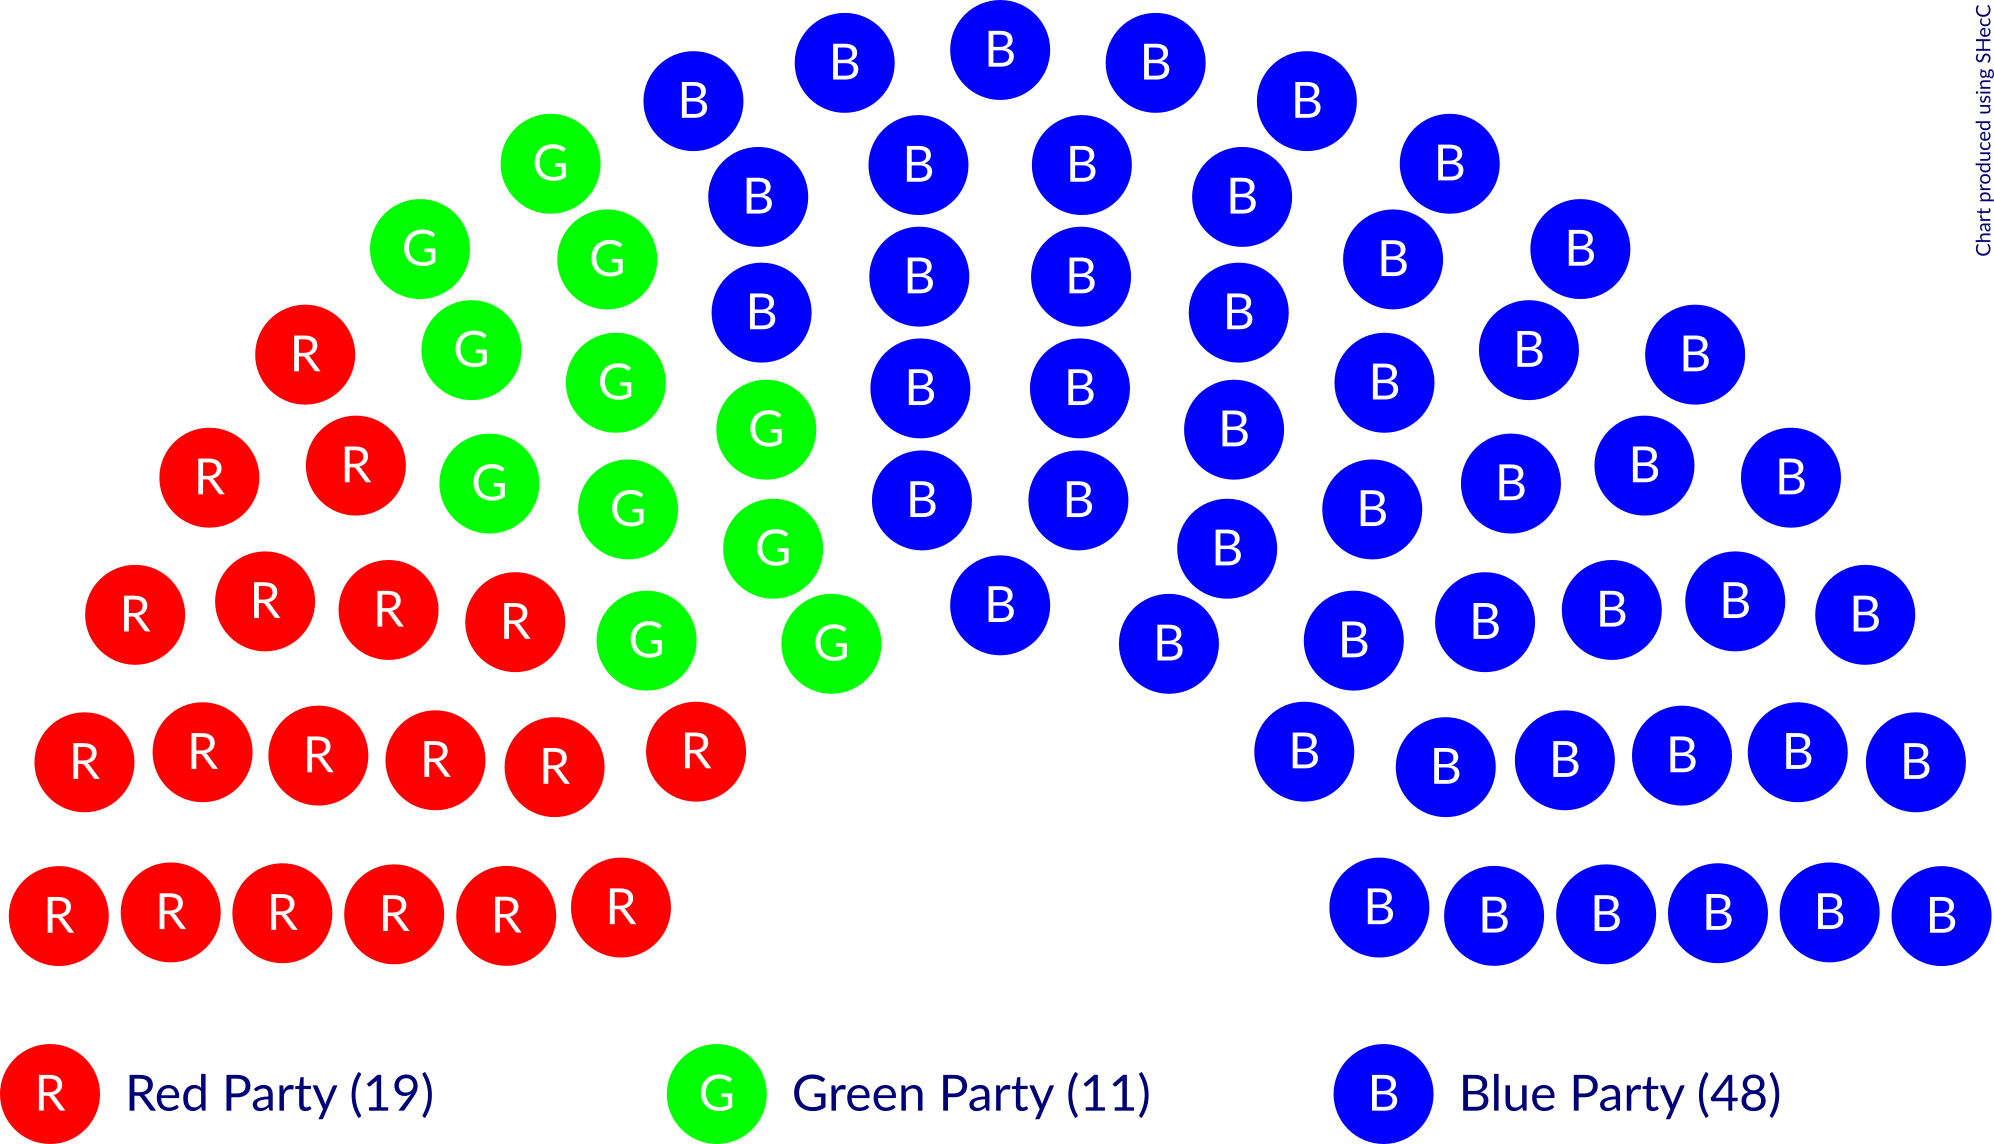
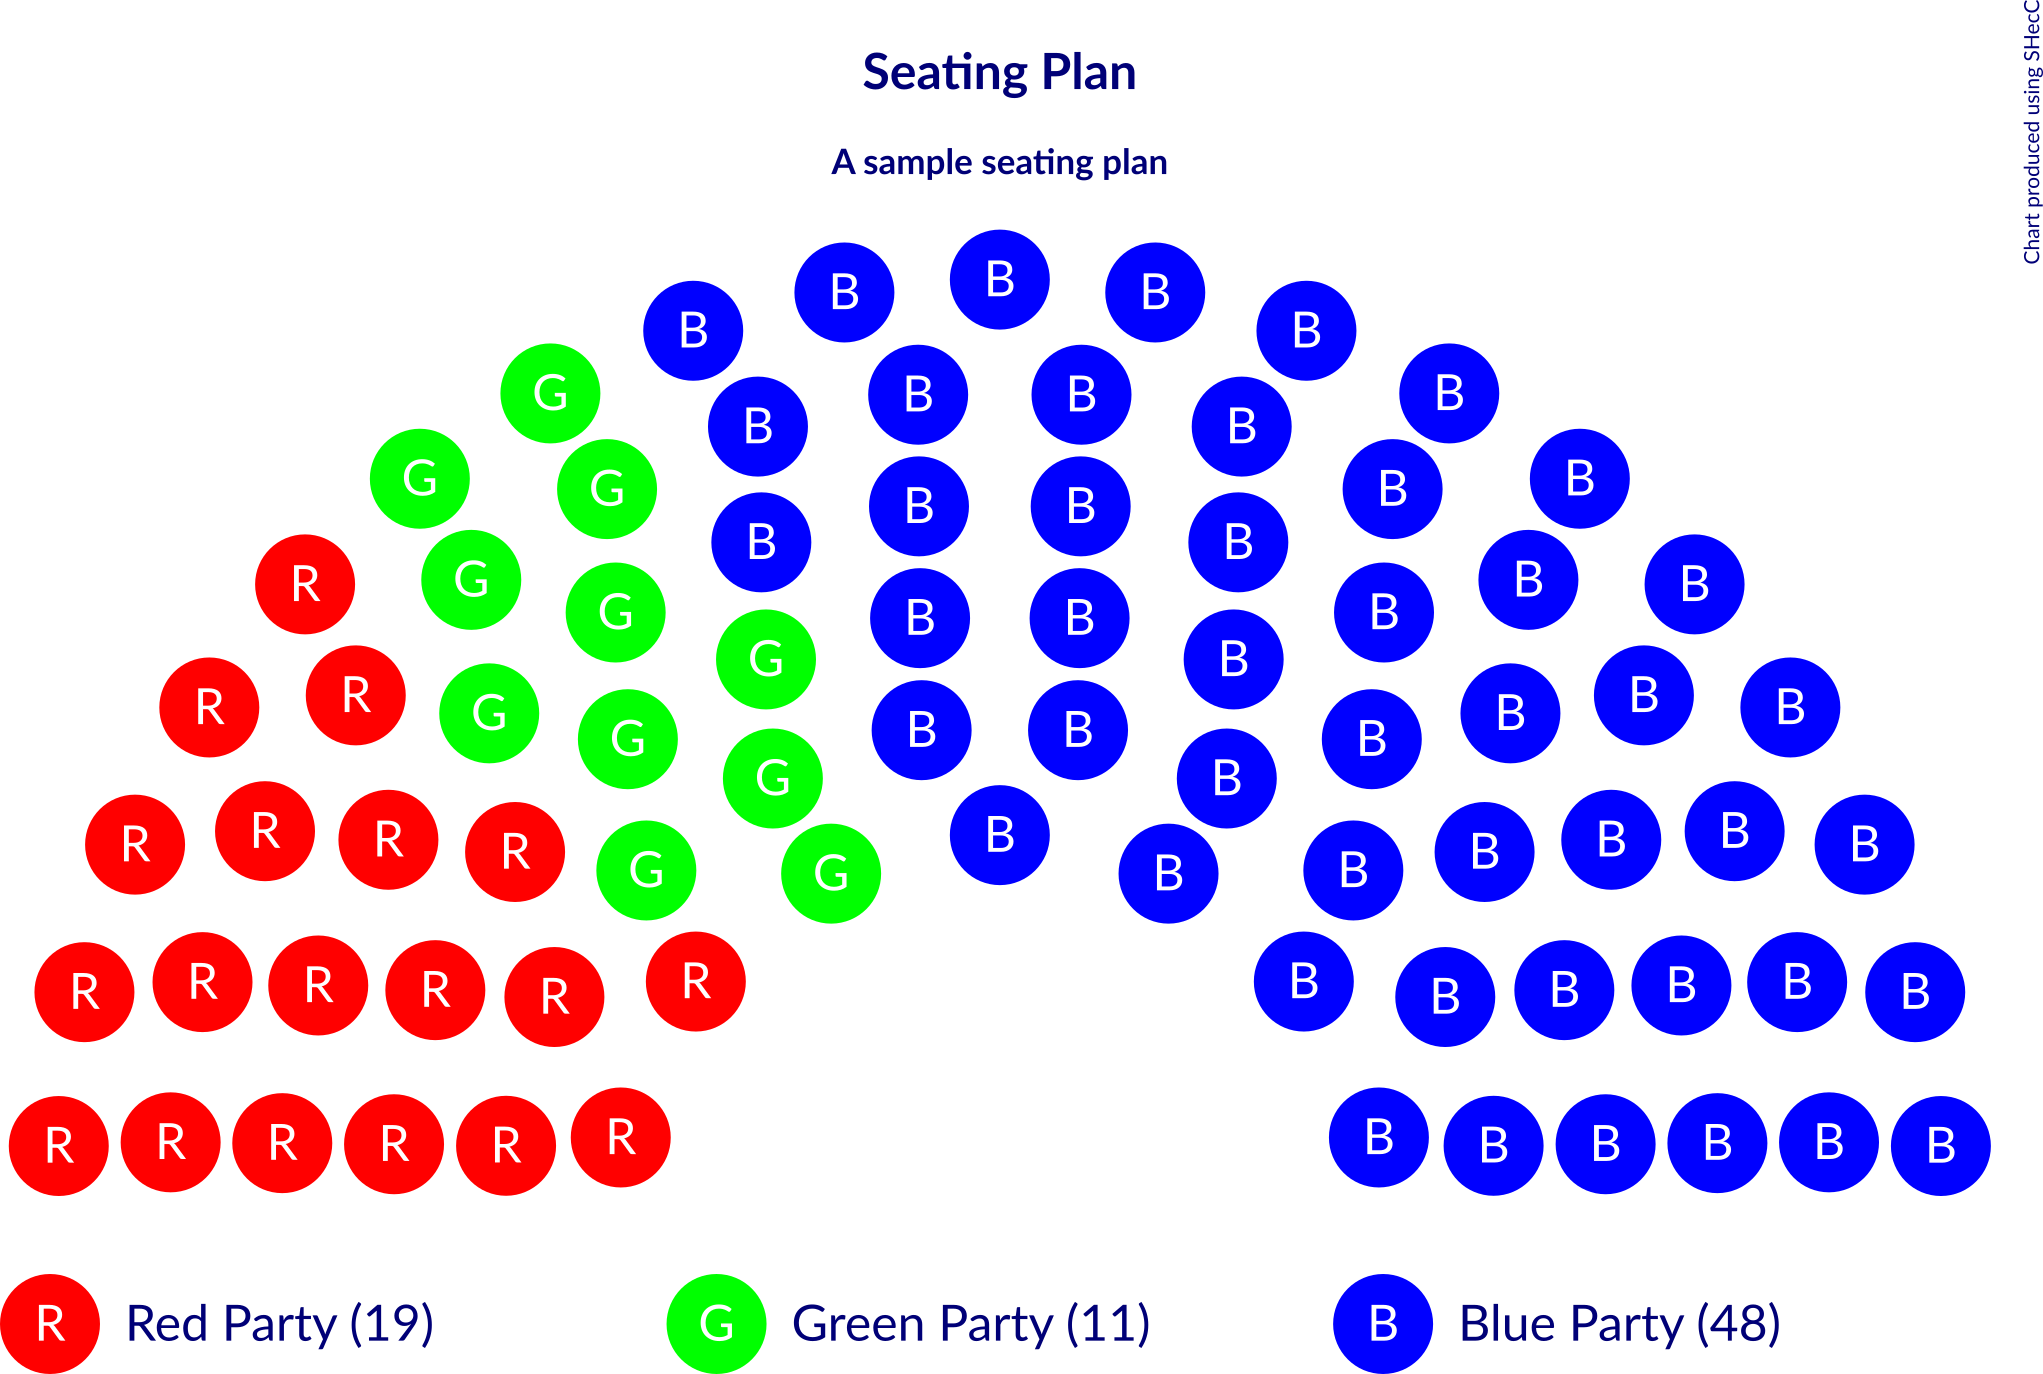
Updated the README file

diff --git a/README.md b/README.md
@@ -148,8 +148,8 @@ blue as the font color, with a title and a subtitle:
 ```
 java -jar shecc-1.0-SNAPSHOT-jar-with-dependencies.jar \
   "19.FF0000.Red Party.R,11.00FF00.Green Party.G,48.0000FF.Blue Party.B" \
-  --font-color=000077 --font-family=Lato "--subtitle=A sample seating plan" \
-  "--title=Seating Plan" > styled-seating-plan-with-legend.svg
+  --font-color=000077 --font-family=Lato --subtitle="A sample seating plan" \
+  --title="Seating Plan" > styled-seating-plan-with-legend.svg
 ```
 
 ![Styled seating plan with 19 red seats, 11 green seats and 48 blue seats, together with a legend](/README-styled-seating-plan-with-legend.png "Styled seating plan with 19 red seats, 11 green seats and 48 blue seats, together with a legend")
